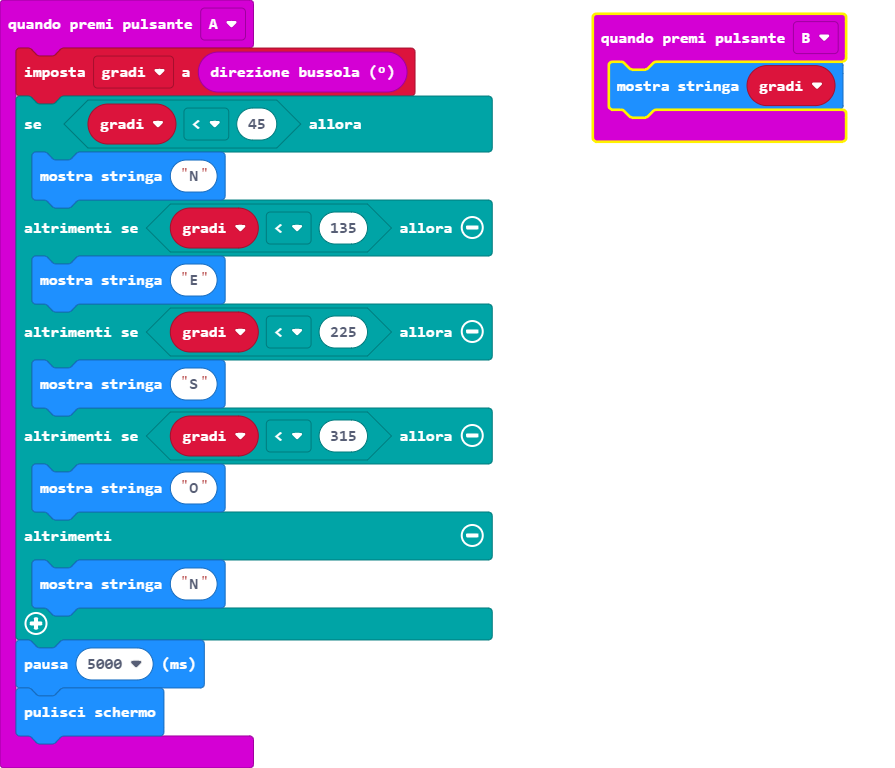
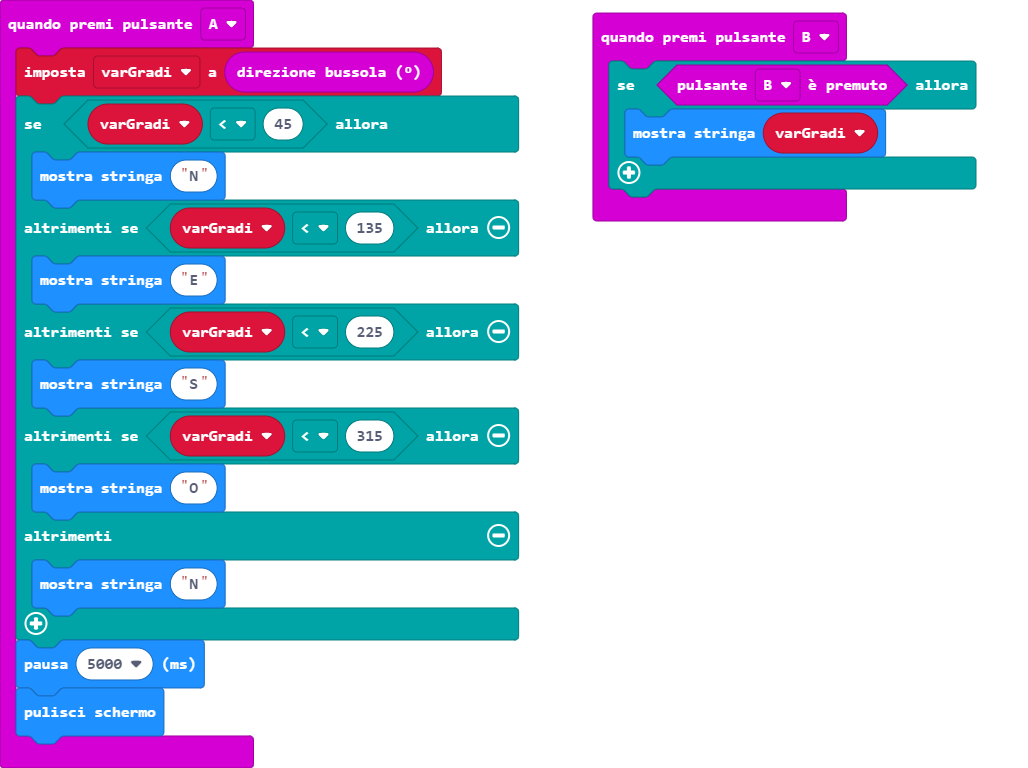
Aggiorna main.blocks, main.ts

diff --git a/main.ts b/main.ts
@@ -1,13 +1,13 @@
-let gradi = 0
+let varGradi = 0
 input.onButtonPressed(Button.A, function () {
-    gradi = input.compassHeading()
-    if (gradi < 45) {
+    varGradi = input.compassHeading()
+    if (varGradi < 45) {
         basic.showString("N")
-    } else if (gradi < 135) {
+    } else if (varGradi < 135) {
         basic.showString("E")
-    } else if (gradi < 225) {
+    } else if (varGradi < 225) {
         basic.showString("S")
-    } else if (gradi < 315) {
+    } else if (varGradi < 315) {
         basic.showString("O")
     } else {
         basic.showString("N")
@@ -16,5 +16,7 @@ input.onButtonPressed(Button.A, function () {
     basic.clearScreen()
 })
 input.onButtonPressed(Button.B, function () {
-    basic.showString("" + (gradi))
+    if (input.buttonIsPressed(Button.B)) {
+        basic.showString("" + (varGradi))
+    }
 })
